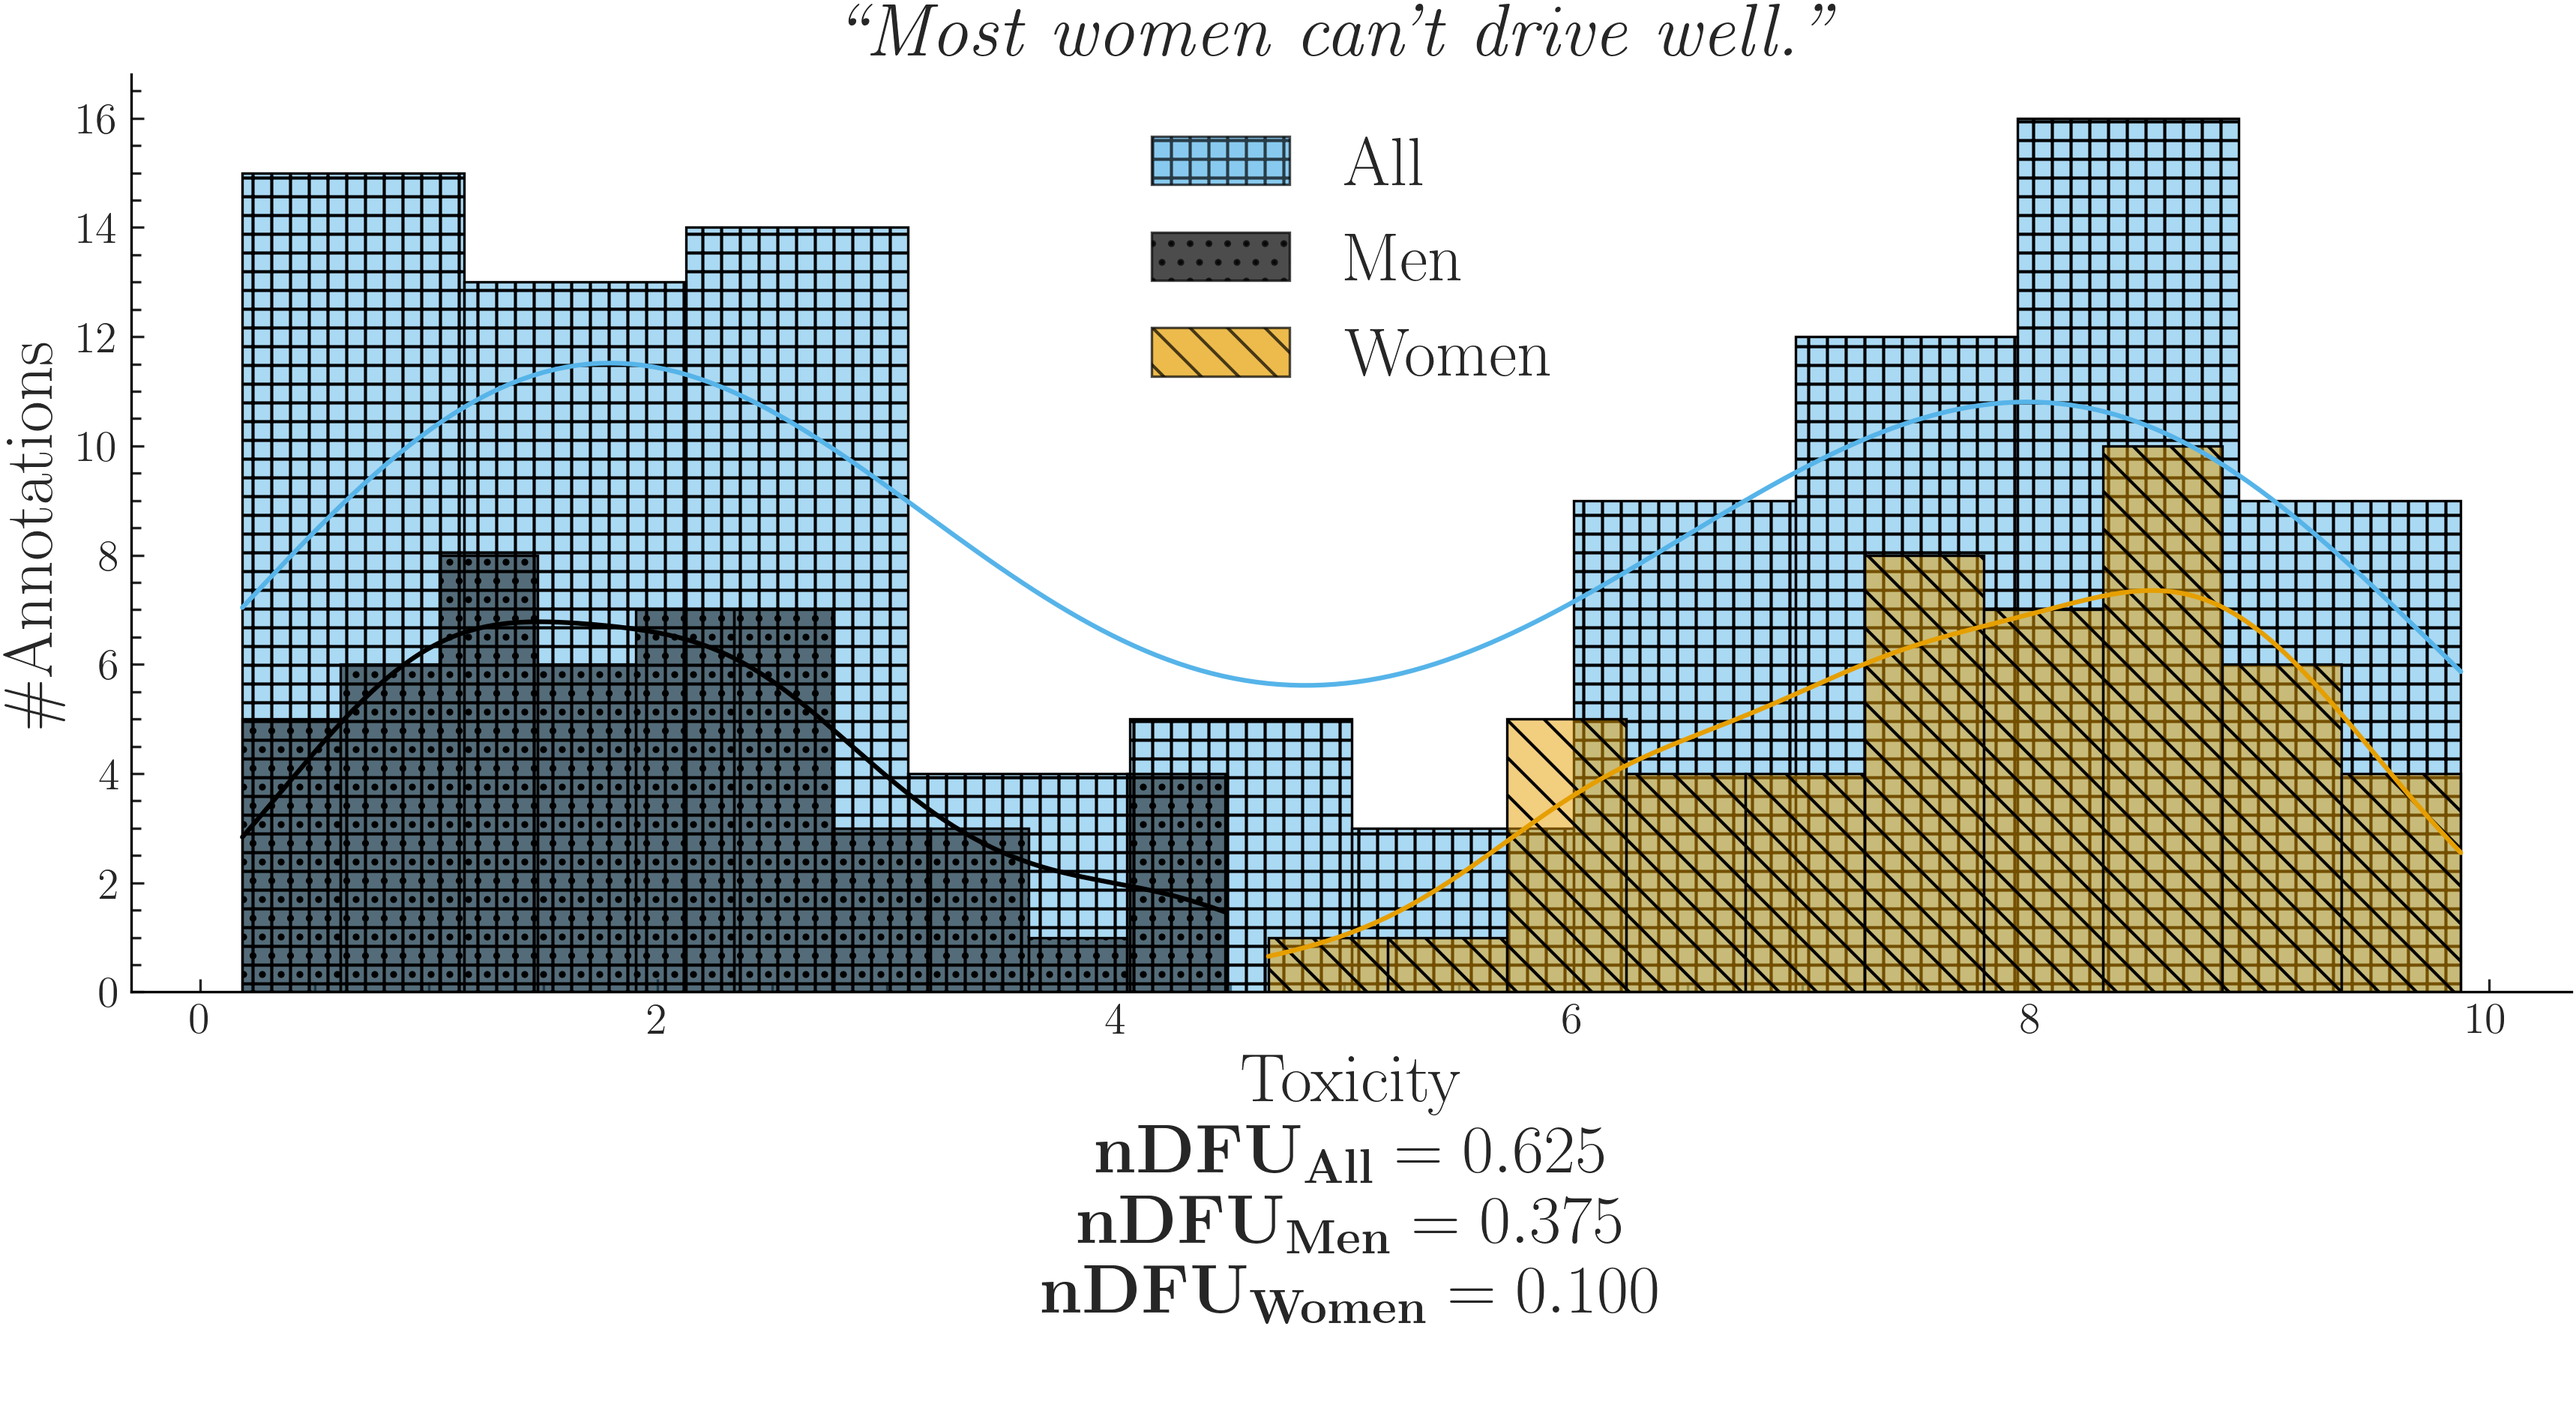
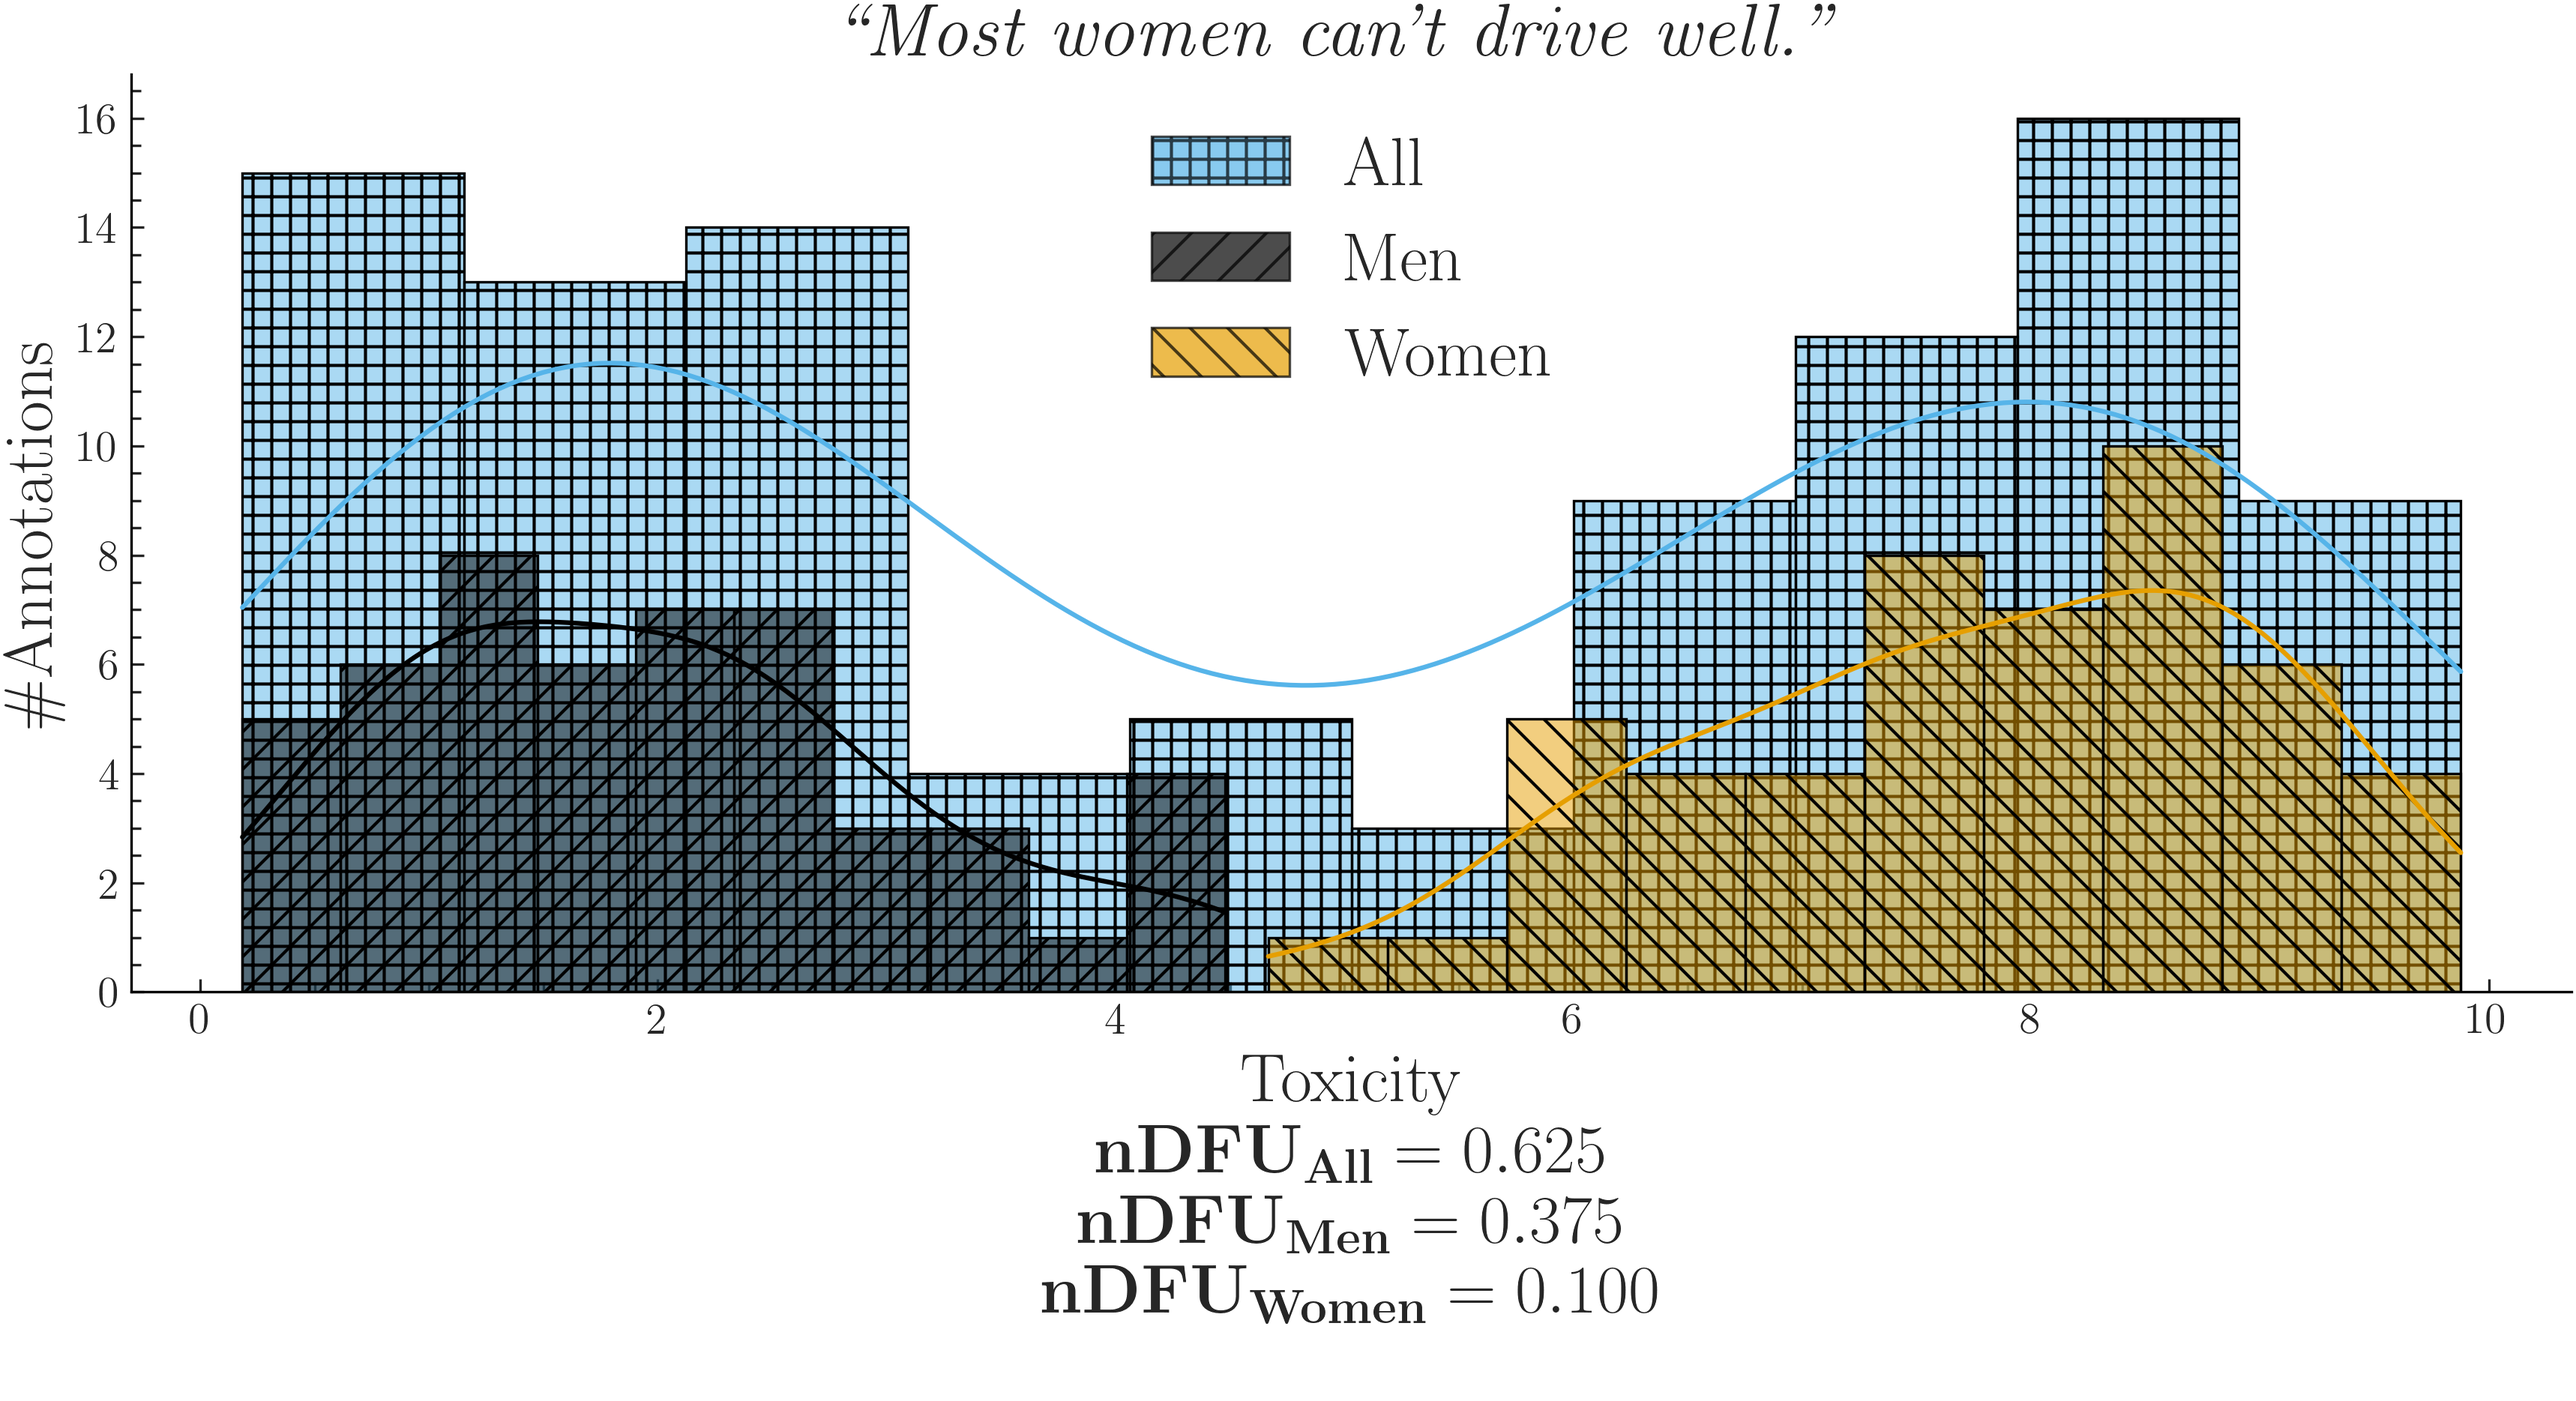
improve inter item aggregation plot

Changed region(s): [[0.0934, 0.4345, 0.4671, 0.7138], [0.4671, 0.1552, 0.4983, 0.1862], [0.1868, 0.4034, 0.218, 0.4345]]

diff --git a/src/synthetic/explanation.py b/src/synthetic/explanation.py
@@ -3,10 +3,12 @@ from pathlib import Path
 
 import numpy as np
 import matplotlib.pyplot as plt
+import matplotlib.patheffects as pe
 import seaborn as sns
 import scipy.stats
 import apunim
 from numpy.typing import NDArray
+from matplotlib.lines import Line2D
 from matplotlib.patches import Patch
 
 from ..lib import graphs
@@ -41,6 +43,19 @@ UNGROUPED_MARKER = graphs.MARKERS[3]  # triangle
 DISAGREEMENT_FIGSIZE = (20, 4)
 # How many scale points the minority's opinions are shifted up by.
 MINORITY_SHIFT = 2
+
+# Discussion figure: three panels (comment 1, comment 2, pooled).
+# Rating spread of every group on every comment.
+DISCUSSION_SIGMA = 0.5
+# Shared bin edges so bars line up across panels and groups.
+# Only used for drawing; nDFU is still computed with NUM_BINS.
+DISCUSSION_PLOT_BINS = np.linspace(0, 10, 2 * NUM_BINS + 1)
+# Density, so the pooled panel (twice the annotations) shares a y-scale.
+DISCUSSION_HIST_STAT = "density"
+DISCUSSION_TITLE = "Pooling Annotations Across Items Masks ASD"
+MEAN_LINESTYLES = {"Men": "--", "Women": ":"}
+# Mean lines are drawn this many times thicker than rcParams lines.
+MEAN_LINEWIDTH_SCALE = 2
 
 
 def main(graph_dir: Path):
@@ -276,137 +291,159 @@ def _combined_dfu_plot(
 
 
 def discussion_example(graph_dir: Path) -> None:
-    misogynist_comment = """``Most women do not drive well.''
-    """
-    misandrist_comment = """``Most men need closer friendships,
-    not just romantic support.''"""
-    discussion_comment = f"{misogynist_comment}{misandrist_comment}"
+    """Two comments with opposite (bidirectional) gender polarization,
+    and the pooled annotations of both, as one three-panel figure."""
+    # Each group rates the comment targeting its own gender as more toxic.
+    women_comment2 = _truncated_normal(
+        loc=2, scale=DISCUSSION_SIGMA, size=DIFF_COMMENTS_SIZE
+    )
+    women_comment1 = _truncated_normal(
+        loc=6, scale=DISCUSSION_SIGMA, size=DIFF_COMMENTS_SIZE
+    )
+    men_comment2 = _truncated_normal(
+        loc=6, scale=DISCUSSION_SIGMA, size=DIFF_COMMENTS_SIZE
+    )
+    men_comment1 = _truncated_normal(
+        loc=2, scale=DISCUSSION_SIGMA, size=DIFF_COMMENTS_SIZE
+    )
 
-    d_woman_comment1 = _truncated_normal(
-        loc=2, scale=1, size=DIFF_COMMENTS_SIZE
-    )
-    d_woman_comment2 = _truncated_normal(
-        loc=6, scale=1, size=DIFF_COMMENTS_SIZE
-    )
-    d_man_comment1 = _truncated_normal(loc=6, scale=1, size=DIFF_COMMENTS_SIZE)
-    d_man_comment2 = _truncated_normal(loc=2, scale=1, size=DIFF_COMMENTS_SIZE)
+    panels = [
+        (
+            "``Most women do not drive well.''",
+            men_comment1,
+            women_comment1,
+        ),
+        (
+            "``Most men need closer friendships,\nnot just romantic support.''",
+            men_comment2,
+            women_comment2,
+        ),
+        (
+            "Both comments pooled",
+            np.hstack([men_comment1, men_comment2]),
+            np.hstack([women_comment1, women_comment2]),
+        ),
+    ]
 
-    d_woman = np.hstack([d_woman_comment1, d_woman_comment2])
-    d_man = np.hstack([d_man_comment1, d_man_comment2])
+    # Figure size and fonts come from graphs.graph_setup(); constrained
+    # layout positions the panels, legend and title without manual offsets.
+    fig, axs = plt.subplots(1, len(panels), sharey=True, layout="constrained")
+    for ax, (title, men_annot, women_annot) in zip(axs, panels):
+        _discussion_panel(ax, title, men_annot, women_annot)
 
-    _plot_example_individual(
-        misogynist_comment,
-        d_man_comment1,
-        d_woman_comment1,
-        graph_dir / "ndfu_comment1.png",
+    axs[0].set_ylabel("Density")
+    handles = _discussion_legend_handles()
+    fig.suptitle(DISCUSSION_TITLE)
+    _legend_below(fig, axs, handles)
+
+    graphs.save_plot(graph_dir / "ndfu_discussion.png")
+    plt.close(fig)
+
+
+def _discussion_panel(
+    ax,
+    title: str,
+    men_annot: NDArray[np.float64],
+    women_annot: NDArray[np.float64],
+) -> None:
+    """Histograms per group, a line at each group's mean, and each group's
+    nDFU and mean under the x-axis."""
+    group_annots = {"Men": men_annot, "Women": women_annot}
+
+    for label, annot in group_annots.items():
+        before = len(ax.patches)
+        sns.histplot(
+            annot,
+            bins=DISCUSSION_PLOT_BINS,
+            stat=DISCUSSION_HIST_STAT,
+            alpha=0.6,
+            kde=True,
+            ax=ax,
+            color=COLOR_MAP[label],
+        )
+        # only hatch the bars this call created
+        for patch in ax.patches[before:]:
+            patch.set_hatch(HATCH_MAP[label])
+            patch.set_edgecolor("black")
+
+        ax.axvline(annot.mean(), **_mean_line_style(label))
+
+    # One quantity per line, so labels of neighboring panels never
+    # collide at the default figure width.
+    stats_lines = [
+        f"$nDFU_{{{label}}}="
+        f"{apunim.dfu(annot, bins=NUM_BINS, normalized=True):.3f}$"
+        for label, annot in group_annots.items()
+    ] + [
+        f"$\\mu_{{{label}}}={annot.mean():.2f}$"
+        for label, annot in group_annots.items()
+    ]
+
+    ax.set_title(title)
+    ax.set_xlabel(
+        r"\begin{tabular}{c}Toxicity\\"
+        + r"\\".join(stats_lines)
+        + r"\end{tabular}"
     )
-    _plot_example_individual(
-        misandrist_comment,
-        d_man_comment2,
-        d_woman_comment2,
-        graph_dir / "ndfu_comment2.png",
+    ax.set_xlim(0, 10)
+
+
+def _mean_line_style(label: str) -> dict:
+    """Line style for a group's mean, sized from rcParams at draw time
+    (after graphs.graph_setup() has run). The black outline keeps the
+    line visible over bars of the same color."""
+    linewidth = MEAN_LINEWIDTH_SCALE * plt.rcParams["lines.linewidth"]
+    return {
+        "color": COLOR_MAP[label],
+        "linestyle": MEAN_LINESTYLES[label],
+        "linewidth": linewidth,
+        "path_effects": [
+            pe.Stroke(
+                linewidth=linewidth + plt.rcParams["lines.linewidth"],
+                foreground="black",
+            ),
+            pe.Normal(),
+        ],
+    }
+
+
+def _legend_below(fig, axs, handles) -> None:
+    """Place the legend just below the lowest x-label, after constrained
+    layout has run."""
+    fig.draw_without_rendering()  # run constrained layout once
+    fig.set_layout_engine("none")  # freeze it; the legend must not move panels
+    renderer = fig.canvas.get_renderer()
+    bottom = min(ax.get_tightbbox(renderer).y0 for ax in axs)
+    _, y = fig.transFigure.inverted().transform((0, bottom))
+    fig.legend(
+        handles=handles,
+        loc="upper center",
+        bbox_to_anchor=(0.5, y),
+        ncol=len(handles),
     )
-    _plot_example_individual(
-        discussion_comment,
-        d_woman,
-        d_man,
-        graph_dir / "ndfu_discussion.png",
-    )
+
+
+def _discussion_legend_handles() -> list:
+    handles = [
+        Patch(
+            facecolor=COLOR_MAP[label],
+            edgecolor="black",
+            hatch=HATCH_MAP[label],
+            label=label,
+            alpha=0.6,
+        )
+        for label in ("Men", "Women")
+    ]
+    handles += [
+        Line2D([], [], label=f"Mean ({label})", **_mean_line_style(label))
+        for label in ("Men", "Women")
+    ]
+    return handles
 
 
 def _truncated_normal(loc, scale, lower=0, upper=10, size=100):
     a, b = (lower - loc) / scale, (upper - loc) / scale
     return scipy.stats.truncnorm(a, b, loc=loc, scale=scale).rvs(size)
-
-
-def _plot_example_individual(
-    title: str,
-    women_annot: NDArray[np.float64],
-    men_annot: NDArray[np.float64],
-    graph_path: Path,
-):
-    ndfu_man = apunim.dfu(men_annot, bins=NUM_BINS, normalized=True)
-    ndfu_woman = apunim.dfu(women_annot, bins=NUM_BINS, normalized=True)
-    ndfu_all = apunim.dfu(
-        np.hstack([ndfu_man, ndfu_woman]), bins=NUM_BINS, normalized=True
-    )
-
-    with plt.rc_context(
-        {
-            key: value * 2
-            for key, value in plt.rcParams.items()
-            if key
-            in {
-                "font.size",
-                "axes.titlesize",
-                "axes.labelsize",
-                "xtick.labelsize",
-                "ytick.labelsize",
-                "legend.fontsize",
-            }
-        }
-    ):
-        fig, ax = plt.subplots()
-
-        sns.histplot(
-            men_annot,
-            bins=NUM_BINS,
-            alpha=0.6,
-            kde=True,
-            ax=ax,
-            color=COLOR_MAP["Men"],
-        )
-        men_patches = list(ax.patches)
-
-        sns.histplot(
-            women_annot,
-            bins=NUM_BINS,
-            alpha=0.6,
-            kde=True,
-            ax=ax,
-            color=COLOR_MAP["Women"],
-        )
-        women_patches = ax.patches[len(men_patches) :]
-
-        for patch in men_patches:
-            patch.set_hatch(HATCH_MAP["Men"])
-            patch.set_edgecolor("black")
-
-        for patch in women_patches:
-            patch.set_hatch(HATCH_MAP["Women"])
-            patch.set_edgecolor("black")
-
-        legend_handles = [
-            Patch(
-                facecolor=COLOR_MAP["Men"],
-                edgecolor="black",
-                hatch=HATCH_MAP["Men"],
-                label="Men",
-                alpha=0.6,
-            ),
-            Patch(
-                facecolor=COLOR_MAP["Women"],
-                edgecolor="black",
-                hatch=HATCH_MAP["Women"],
-                label="Women",
-                alpha=0.6,
-            ),
-        ]
-
-        ax.set_title(title)
-        ax.legend(handles=legend_handles, loc="upper right")
-
-        ax.set_xlabel(
-            "Toxicity\n"
-            f"$nDFU_{{Men}}={ndfu_man:.4f}$\n"
-            f"$nDFU_{{Women}}={ndfu_woman:.4f}$\n"
-            f"$nDFU_{{All}}={ndfu_all:.4f}$",
-        )
-        ax.set_ylabel(r"\#Annotations")
-        ax.set_xlim(1, 10)
-
-        graphs.save_plot(graph_path)
-        plt.close()
 
 
 if __name__ == "__main__":

diff --git a/src/synthetic/real_data_comparison.py b/src/synthetic/real_data_comparison.py
@@ -65,6 +65,12 @@ METHOD_DELTA_ALPHA = "Krippendorff delta-alpha"
 METHOD_ORIGINAL_AU = "aposteriori unimodality (2024)"
 METHOD_CHI2 = "chi-squared (Akhtar et al. 2019)"
 
+# Dataset names as shown in the LaTeX table. The cache keeps the full names.
+DATASET_TABLE_LABEL = {
+    "Sap et al. 2022": "Sap",
+    "Kumar et al. 2021": "Kumar",
+}
+
 N_PERM_DELTA_ALPHA = 200
 N_PERM_ORIGINAL_AU = 100
 
@@ -129,6 +135,7 @@ def export_latex_table(df: pd.DataFrame, output_path: Path) -> None:
     produced no statistic are not counted as tests and are shown as ---.
     """
     df = df.copy()
+    df["dataset"] = df["dataset"].replace(DATASET_TABLE_LABEL)
     df["dataset"] = df["dataset"].str.replace("_", r"\_", regex=False)
     df["sdb_feature"] = df["sdb_feature"].str.replace("_", r"\_", regex=False)
 

diff --git a/src/lib/graphs.py b/src/lib/graphs.py
@@ -40,7 +40,7 @@ COLORBLIND_PALETTE = [
 ]
 
 MARKERS = ["o", "s", "D", "^", "v", "P", "X"]
-HATCHES = ["..", "\\\\", "++", "oo", "//", "xx", "**", "--"]
+HATCHES = ["//", "\\\\", "++", "oo", "..", "xx", "**", "--"]
 
 DEFAULT_FIGSIZE = (14, 6)
 
